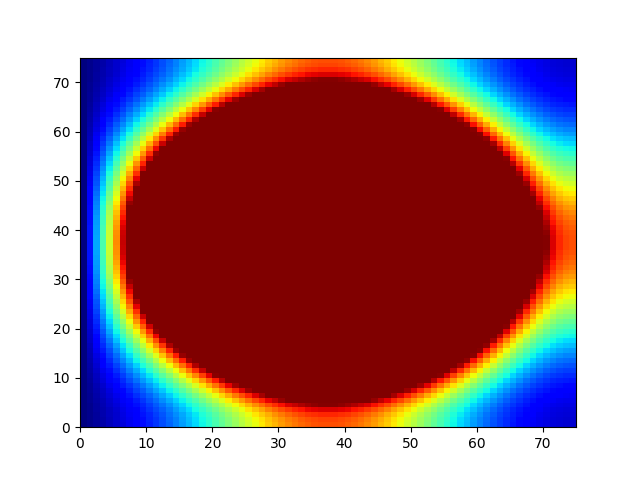
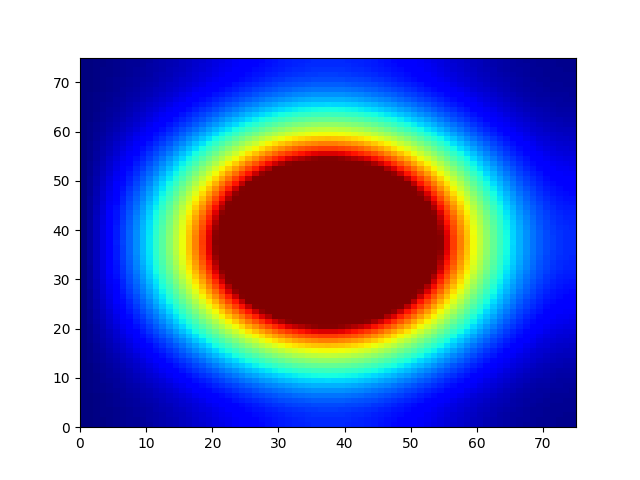
Added readme and gitignore

diff --git a/heatequation.py b/heatequation.py
@@ -57,7 +57,7 @@ y_ticks = np.arange(0, 1, delta_y)
 grid_x, grid_y = np.meshgrid(x_ticks, y_ticks)
 
 color_map = plt.colormaps['jet']
-color_norm = colors.Normalize(vmin=0, vmax=2.0)
+color_norm = colors.Normalize(vmin=0, vmax=10.0)
 
 figure, axis = plt.subplots()
 
@@ -65,7 +65,7 @@ figure, axis = plt.subplots()
 render_freq = 200 # number of updates/frames between renders
 frame = 0 # frame counter
 max_frames = 100000000 # number of frames to be rendered
-save_images = False
+save_images = True
 while frame < max_frames:
     if (frame % render_freq == 0):
         pc = axis.pcolormesh(nodes.transpose(),norm=color_norm, cmap=color_map) # need to take transpose of nodes matrices to render properly

diff --git a/README.md b/README.md
@@ -1,0 +1,17 @@
+<h1>Numerical PDEs</h1>
+The purpose of this project is to use Python to implement methods for numerically solving PDEs which govern physical problems.
+
+The equations of interest are:
+* Laplace's equation
+* The heat equation
+* The wave equation (not yet implemented)
+* The Navier-Stokes equation (not yet implemented).
+
+The methods used are:
+* Finite difference method
+* Euler's method
+* Finite volume method (not implemented yet).
+
+<img src="Images/laplace_solution.png" width=450 height=450>
+
+<f1>Approximate solution to Laplace's equation in a square region.</f1>
